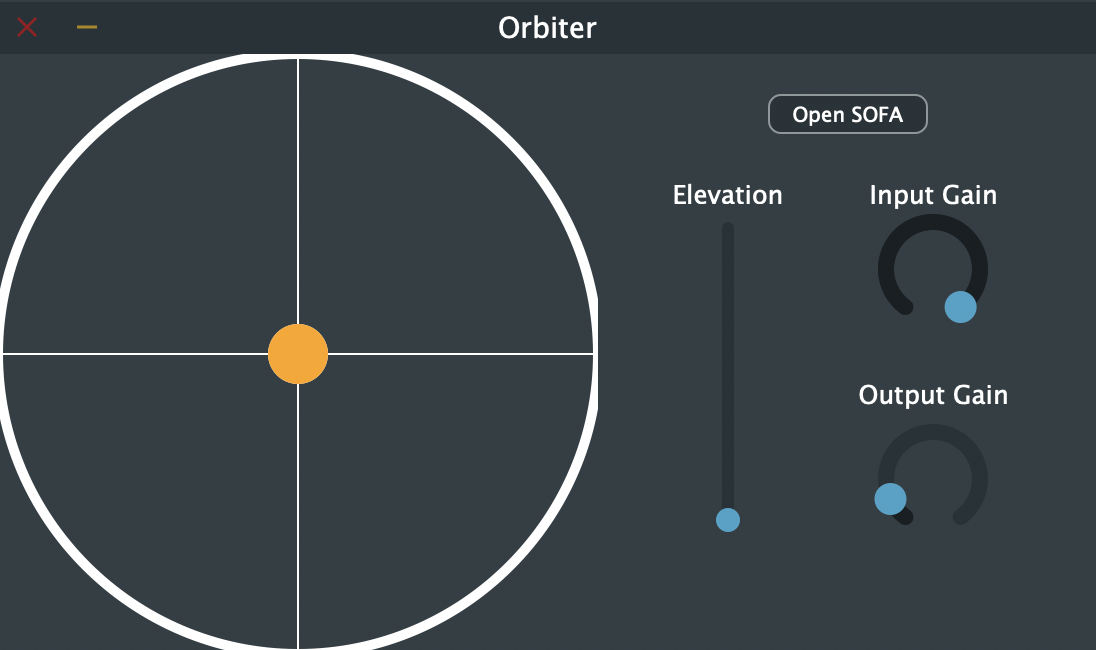
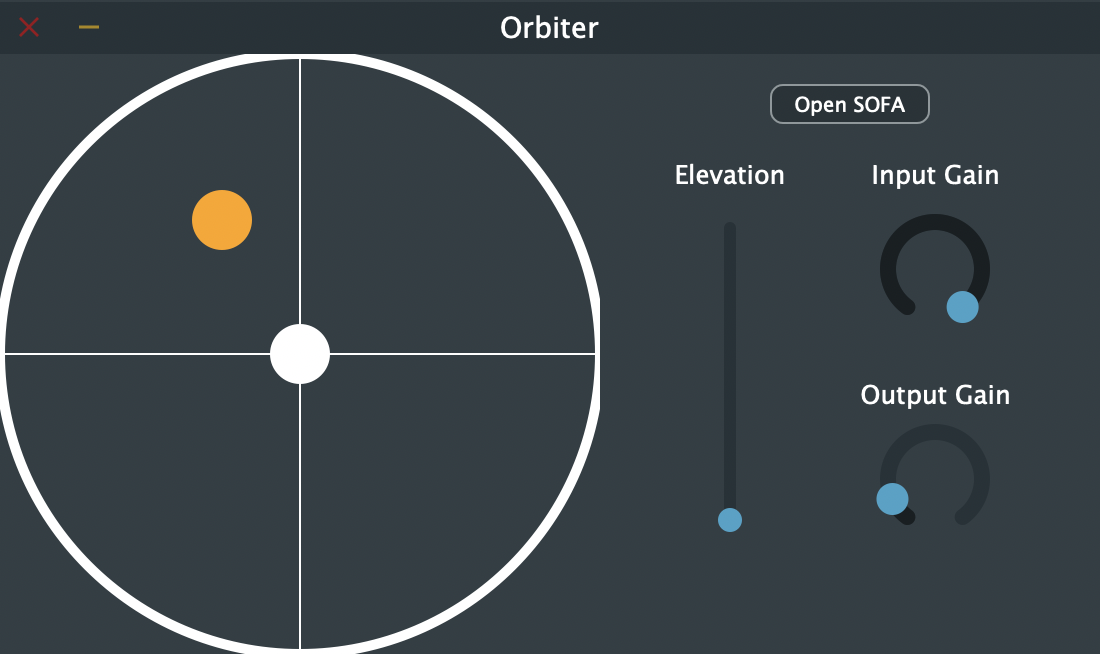
Update GUI image in readme

diff --git a/Source/PluginEditor.cpp b/Source/PluginEditor.cpp
@@ -81,8 +81,8 @@ void OrbiterAudioProcessorEditor::paint (juce::Graphics& g)
     
     
     auto bounds = getLocalBounds();
-    g.drawFittedText("Elevation", bounds.withTrimmedLeft(315).withTrimmedTop(65).withSize(100, 10), juce::Justification::Flags::centred, 1);
-    g.drawFittedText("Input Gain", bounds.withTrimmedLeft(418).withTrimmedTop(65).withSize(100, 10), juce::Justification::Flags::centred, 1);
+    g.drawFittedText("Elevation", bounds.withTrimmedLeft(315).withTrimmedTop(55).withSize(100, 10), juce::Justification::Flags::centred, 1);
+    g.drawFittedText("Input Gain", bounds.withTrimmedLeft(418).withTrimmedTop(55).withSize(100, 10), juce::Justification::Flags::centred, 1);
     g.drawFittedText("Output Gain", bounds.withTrimmedLeft(418).withTrimmedTop(165).withSize(100, 10), juce::Justification::Flags::centred, 1);
     
 //    bounds = getLocalBounds();
@@ -98,7 +98,7 @@ void OrbiterAudioProcessorEditor::resized()
     hrtfPhiSlider.setBounds(getLocalBounds().withTrimmedTop(75).withTrimmedLeft(330).withSize(70, 170));
     inputGainSlider.setBounds(getLocalBounds().withTrimmedTop(70).withTrimmedLeft(430).withSize(75, 75));
     outputGainSlider.setBounds(getLocalBounds().withTrimmedTop(175).withTrimmedLeft(430).withSize(75, 75));
-    sofaFileButton.setBounds(getLocalBounds().withTrimmedTop(20).withTrimmedLeft(385).withSize(80, 20));
+    sofaFileButton.setBounds(getLocalBounds().withTrimmedTop(15).withTrimmedLeft(385).withSize(80, 20));
 }
 
 
